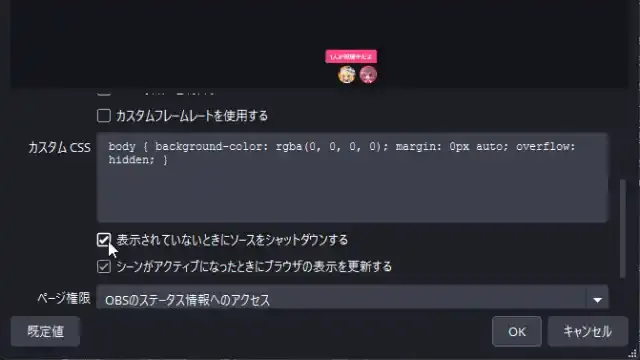
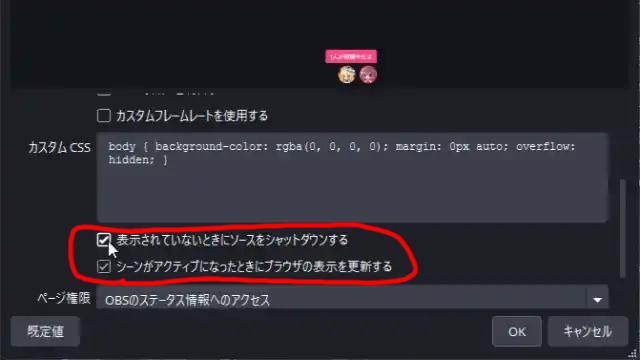
feat: add index exports and StrawberryChocolate preset configuration

Changed region(s): [[0.0938, 0.6111, 0.6562, 0.7944]]

diff --git a/packages/index.ts b/packages/index.ts
@@ -12,14 +12,14 @@ export default [
   /**
    * common
    */
-  OmikujiBot, // コアプロジェクト
-  // StrawberryChocolate, // ショコラ
+  // OmikujiBot, // コアプロジェクト
+  StrawberryChocolate, // ショコラ
 
   /**
    * 2026-Q4
    */
   // HondaJanken, // じゃんけん
-  LifeHourglass, // 命の砂時計
+  // LifeHourglass, // 命の砂時計
   // MaidenOmikuji, // 巫女さんのおみくじ
   // GouseiSuika, // スイカジェネレーター
 ]

diff --git a/docs/core/OmikujiBot/README.template.ja.md b/docs/core/OmikujiBot/README.template.ja.md
@@ -12,7 +12,7 @@
 
 ![intro_Disclaimer](../../template/jp/intro/intro_Disclaimer.md)
 
-## このテンプレートは何？（Features）
+## このアプリは何？（Features）
 
 ![](../../images/OmikujiBot-1792770376331.webp)
 
@@ -77,7 +77,7 @@
 
 ![faq_OneComme](../../template/jp/faq/faq_OneComme.md)
 
-> おみくじの内容、エディター関連についての内容は [おみくじBOT エディター README](/core/ConfigEditor/README.md) の [よくある質問](/core/ConfigEditor/README.md#%E3%82%88%E3%81%8F%E3%81%82%E3%82%8B%E8%B3%AA%E5%95%8F-faq) をご覧ください。
+> おみくじの内容、エディター関連についての内容は [おみくじBOT エディター README](/core/ConfigEditor/README.ja.md) の [よくある質問](/core/ConfigEditor/README.ja.md#%E3%82%88%E3%81%8F%E3%81%82%E3%82%8B%E8%B3%AA%E5%95%8F-faq) をご覧ください。
 
 ![troubleshooting_OmikujiBotSection](../../template/jp/troubleshooting/troubleshooting_OmikujiBotSection.md)
 
@@ -97,14 +97,6 @@
 ### アプリ本体（ジェネレーター・エディター・プラグイン）
 
 ![license_App](../../template/jp/license/license_App.md)
-
-### 効果音
-
-![license_SoundEffect](../../template/jp/license/license_SoundEffect.md)
-
-### パッケージデータ
-
-![license_PackageGeneric](../../template/jp/license/license_PackageGeneric.md)
 
 ## バージョン情報 (Version)
 

diff --git a/docs/template/jp/installation/installation_ProPackage.md b/docs/template/jp/installation/installation_ProPackage.md
@@ -1,4 +1,4 @@
 1. [テンプレートのインストール方法](https://github.com/Pintocuru/OmikenReadme/blob/main/docs/TemplateInstall/README.md)
 2. [おみくじBOT のアップグレード](/template/jp/installation/installation_VersionUp.md)
-3. [【推奨】おみくじBOT 用 WordParty 2.0 の導入方法](/core/OmikenWordParty/README.jp.md#%E3%82%A4%E3%83%B3%E3%82%B9%E3%83%88%E3%83%BC%E3%83%AB%E6%96%B9%E6%B3%95-installation)
-   - [おみくじBOT 用 WordParty 2.0 とは?](/core/OmikenWordParty/README.jp.md#%E3%81%93%E3%81%AE%E3%83%86%E3%83%B3%E3%83%97%E3%83%AC%E3%83%BC%E3%83%88%E3%81%AF%E4%BD%95features)
+3. [【推奨】おみくじBOT 用 WordParty 2.0 の導入方法](/core/OmikenWordParty/README.ja.md#%E3%82%A4%E3%83%B3%E3%82%B9%E3%83%88%E3%83%BC%E3%83%AB%E6%96%B9%E6%B3%95-installation)
+   - [おみくじBOT 用 WordParty 2.0 とは?](/core/OmikenWordParty/README.ja.md#%E3%81%93%E3%81%AE%E3%83%86%E3%83%B3%E3%83%97%E3%83%AC%E3%83%BC%E3%83%88%E3%81%AF%E4%BD%95features)

diff --git a/docs/template/jp/troubleshooting/OmikujiBot/troubleshooting_CharacterImagePage.md b/docs/template/jp/troubleshooting/OmikujiBot/troubleshooting_CharacterImagePage.md
@@ -1,6 +1,8 @@
-## Q. キャラクター画像が表示されない
+## Q. キャラクター画像を追加したい
 
-- キャラクター画像は、配布パッケージ内の `Characters` フォルダに格納されています
+![](../../../../images/OmikujiBot-1795773869921.webp)
+
+- キャラクター画像は、配布パッケージ内の `images` フォルダに格納されています
   - 各キャラクターごとにサブフォルダがあり、その中に画像が入っています
 - これらの画像は **本アプリの利用目的の範囲内でのみ使用できます**
   - 抽出・再配布・改変・単体利用など、**目的外での利用は禁止されています**

diff --git a/docs/template/jp/troubleshooting/troubleshooting_OmikujiBotSection.md b/docs/template/jp/troubleshooting/troubleshooting_OmikujiBotSection.md
@@ -5,7 +5,7 @@
 ### 設定・表示・音声関連
 
 - [Q. OBS 側で非表示にしていても、BOT のコメントが勝手に動いてしまう](/template/jp/troubleshooting/OmikujiBot/troubleshooting_ObsSoundPage.md)
-- [Q. キャラクター画像が表示されない](/template/jp/troubleshooting/OmikujiBot/troubleshooting_CharacterImagePage.md)
+- [Q. キャラクター画像を追加したい](/template/jp/troubleshooting/OmikujiBot/troubleshooting_CharacterImagePage.md)
 - [Q. WordParty の音が配信に出ない](/template/jp/troubleshooting/OmikujiBot/troubleshooting_WordPartyPage.md)
 
 ### おみくじ関連

diff --git a/docs/template/jp/troubleshooting/OmikujiBot/troubleshooting_CommentOmikujiPage.md b/docs/template/jp/troubleshooting/OmikujiBot/troubleshooting_CommentOmikujiPage.md
@@ -1,5 +1,7 @@
 ## Q. コメントでおみくじが反応しない
 
+![](../../../../images/OmikujiBot-1795774138197.webp)
+
 - わんコメ側でコメントを受信できていない場合、おみくじも反応しません。
   - 詳しくは、わんコメ公式 [Q.コメントがうまく表示されない](https://onecomme.com/docs/faq#%E3%82%B3%E3%83%A1%E3%83%B3%E3%83%88%E9%96%A2%E9%80%A3) をご覧ください。
 - **使用前に、配信前テストを行うことを推奨しています。**

diff --git a/docs/template/jp/faq/Character/faq_AlwaysCharacterPage.md b/docs/template/jp/faq/Character/faq_AlwaysCharacterPage.md
@@ -1,6 +1,4 @@
 ## Q. キャラクターを常に表示させたい
 
-(TODO:タイトルと内容が一致していません。常時表示の設定方法を書く)
-
 - おみくじが実行されるまでは、表示されません。
 - おみくじ実行時、シナリオに従いフキダシやキャラクターが表示されます。
